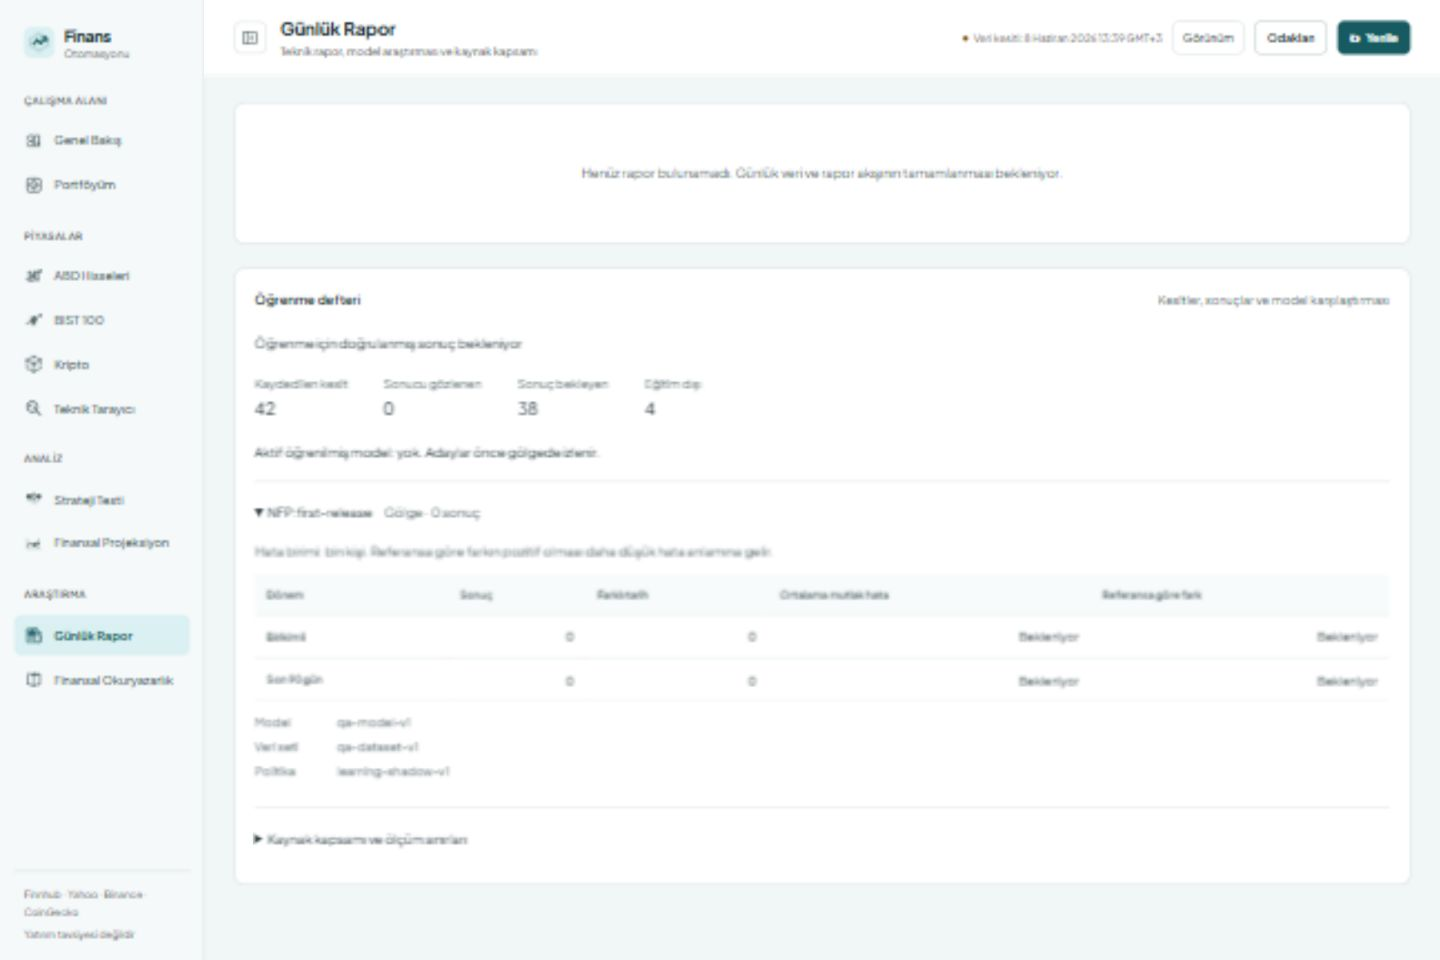
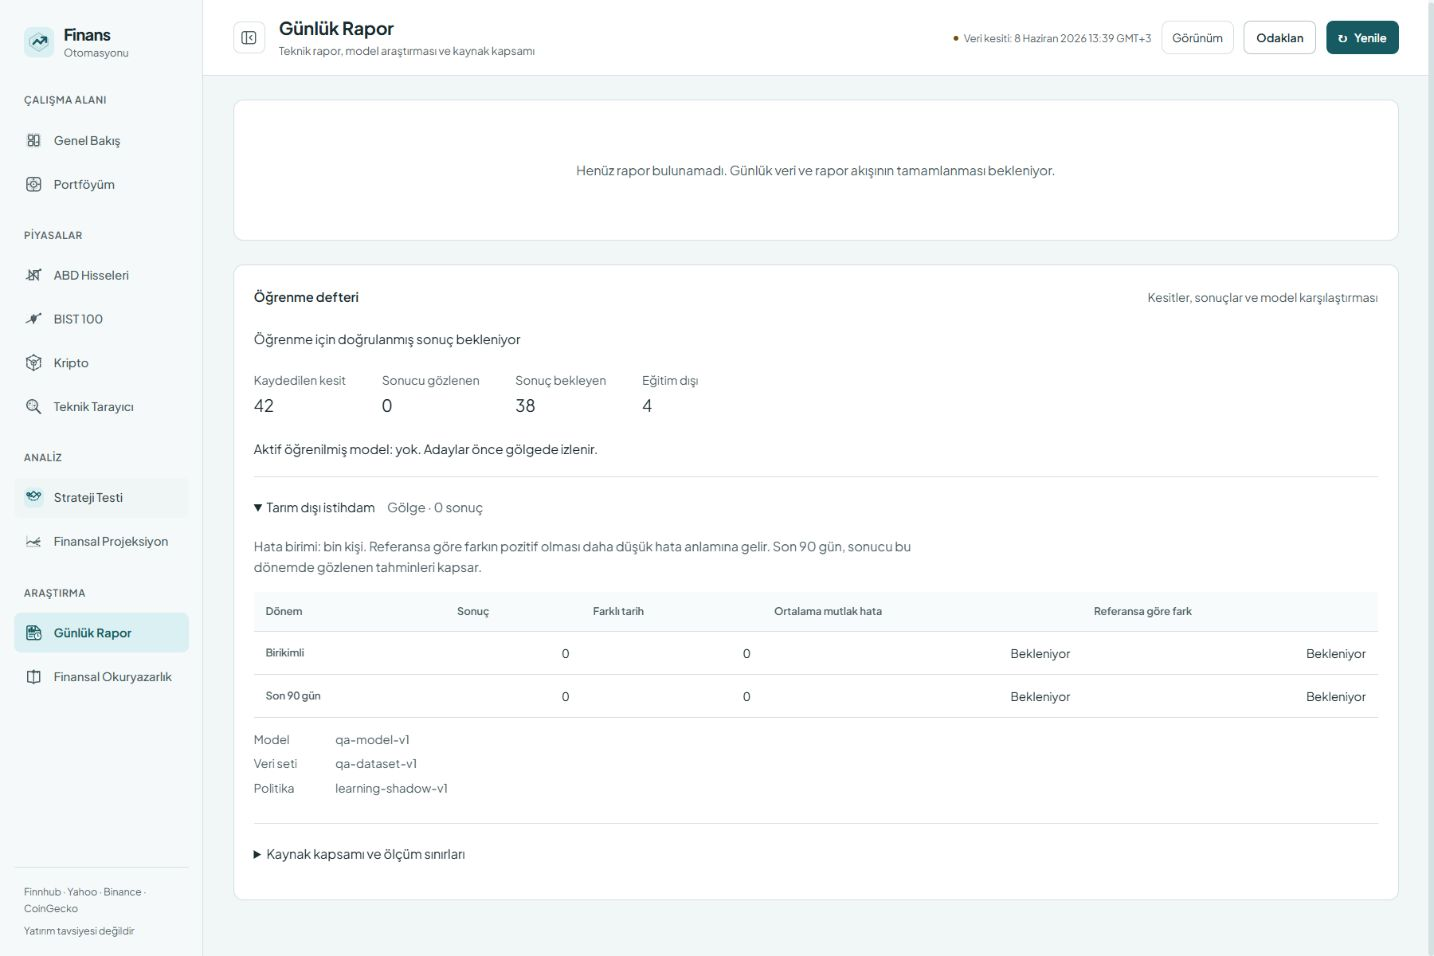
docs: retain final learning UI acceptance evidence

diff --git a/public/learning.js b/public/learning.js
@@ -10,8 +10,8 @@
    if(!data?.counts)return '<p class="learning-state" role="status">Öğrenme kayıtları yükleniyor…</p>';
    const c=data.counts;
    const description=c.matured?'İlk kararlar korunuyor; gerçekleşen sonuçlar kendi tahminleriyle karşılaştırılıyor.':'Öğrenme için doğrulanmış sonuç bekleniyor';
-   const rows=(data.models||[]).map(m=>'<details class="learning-model"><summary><span>'+escape(modelTitle(m))+'</span><span class="learning-model-mode">Gölge · '+number(m.cumulative.n)+' sonuç</span></summary><p>Hata birimi: '+unit(m.unit)+'. Referansa göre farkın pozitif olması daha düşük hata anlamına gelir. Son 90 gün, sonucu bu dönemde gözlenen tahminleri kapsar.</p><div class="learning-table-scroll" tabindex="0" aria-label="Model hata karşılaştırması"><table><thead><tr><th scope="col">Dönem</th><th scope="col">Sonuç</th><th scope="col">Farklı tarih</th><th scope="col">Ortalama mutlak hata</th><th scope="col">Referansa göre fark</th></tr></thead><tbody>'+metrics('Birikimli',m.cumulative,unit(m.unit))+metrics('Son 90 gün',m.recent,unit(m.unit))+'</tbody></table></div><dl class="learning-version"><dt>Model</dt><dd>'+escape(m.modelId)+'</dd><dt>Veri seti</dt><dd>'+escape(m.datasetId)+'</dd><dt>Politika</dt><dd>'+escape(m.policyVersion)+'</dd></dl></details>').join('');
-   return '<p class="learning-state" role="status">'+description+'</p>'+(data.collectionStatus?.status==='partial'?'<p>Son toplama bazı kaynaklarda eksik. Mevcut kayıtlar korunuyor.</p>':'')+'<dl class="learning-counts"><div><dt>Kaydedilen kesit</dt><dd>'+number(c.examples)+'</dd></div><div><dt>Sonucu gözlenen</dt><dd>'+number(c.matured)+'</dd></div><div><dt>Sonuç bekleyen</dt><dd>'+number(c.pending)+'</dd></div><div><dt>Eğitim dışı</dt><dd>'+number(c.excluded)+'</dd></div></dl><p class="learning-policy">Aktif öğrenilmiş model: yok. Adaylar önce gölgede izlenir.</p>'+rows+'<details class="learning-coverage"><summary>Kaynak kapsamı ve ölçüm sınırları</summary><p>Fiyat tahmini işlem başarı oranı veya net getiri değildir. Aynı olayın tekrarları bağımsız sonuç sayılmaz. BIST/ABD seans takvimi ve fiyat düzeltme kanıtı eksikse sonuç etiketi bekler.</p><ul>'+(data.cohorts||[]).map(c=>'<li><span>'+escape(c.cohort)+'</span> · '+number(c.examples)+' kesit, '+number(c.distinctDates)+' farklı tarih, '+number(c.excluded)+' eğitim dışı</li>').join('')+'</ul><p>Son kayıt: '+escape(data.lastRecordedAt?new Date(data.lastRecordedAt).toLocaleString('tr-TR'):'Henüz yok')+'</p></details>';
+   const rows=(data.models||[]).map(m=>'<details class="learning-model"><summary><span>'+escape(modelTitle(m))+'</span><span class="learning-model-mode">Gölge · '+number(m.cumulative.n)+' sonuç</span></summary><p>Hata birimi: '+unit(m.unit)+'. Referansa göre farkın pozitif olması daha düşük hata anlamına gelir. Son 90 gün, sonucu bu dönemde gözlenen tahminleri kapsar.</p><div class="learning-table-scroll" tabindex="0" aria-label="Model hata karşılaştırması"><table><thead><tr><th scope="col">Dönem</th><th scope="col">Sonuç</th><th scope="col">Farklı tarih</th><th scope="col">Ortalama mutlak hata</th><th scope="col">Referansa göre fark</th></tr></thead><tbody>'+metrics('Birikimli',m.cumulative,unit(m.unit))+metrics('Son 90 gün',m.recent,unit(m.unit))+'</tbody></table></div><dl class="learning-version"><dt>Model</dt><dd>'+escape(m.modelId)+'</dd><dt>Veri seti</dt><dd>'+escape(m.datasetId)+'</dd><dt>Politika</dt><dd>'+escape(m.policyVersion)+'</dd><dt>Hazır olduğu</dt><dd>'+escape(m.availableAt)+'</dd></dl></details>').join('');
+   return '<p class="learning-state" role="status">'+description+'</p>'+(data.collectionStatus?.status==='partial'?'<p>Son toplama bazı kaynaklarda eksik. Mevcut kayıtlar korunuyor.</p>':'')+'<dl class="learning-counts"><div><dt>Kaydedilen kesit</dt><dd>'+number(c.examples)+'</dd></div><div><dt>Sonucu gözlenen</dt><dd>'+number(c.matured)+'</dd></div><div><dt>Sonuç bekleyen</dt><dd>'+number(c.pending)+'</dd></div><div><dt>Eğitim dışı</dt><dd>'+number(c.excluded)+'</dd></div></dl><p class="learning-policy">Aktif öğrenilmiş model: yok. Adaylar önce gölgede izlenir.</p>'+rows+'<details class="learning-coverage"><summary>Kaynak kapsamı ve ölçüm sınırları</summary><p>Fiyat tahmini işlem başarı oranı veya net getiri değildir. Aynı olayın tekrarları bağımsız sonuç sayılmaz. BIST/ABD seans takvimi ve fiyat düzeltme kanıtı eksikse sonuç etiketi bekler.</p><ul>'+(data.cohorts||[]).map(c=>'<li><span>'+escape(c.cohort)+'</span> · '+number(c.examples)+' kesit, '+number(c.distinctDates)+' farklı tarih, '+number(c.excluded)+' eğitim dışı</li>').join('')+'</ul><p>Son kayıt: '+escape(data.lastRecordedAt?new Date(data.lastRecordedAt).toLocaleString('tr-TR'):'Henüz yok')+' · Özet kesiti: '+escape(data.projectionRecordedAt||data.asOf||'Henüz yok')+'</p></details>';
  }
  function bind(document,fetcher){
    const host=document.getElementById('learningContent'),panel=document.getElementById('learningPanel');if(!host||!panel)return;
